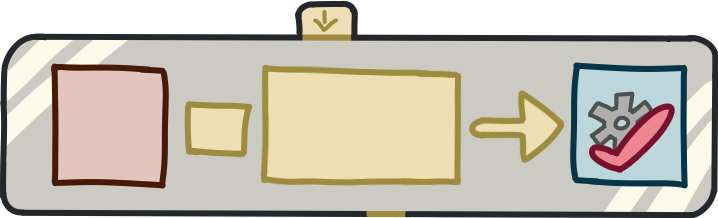
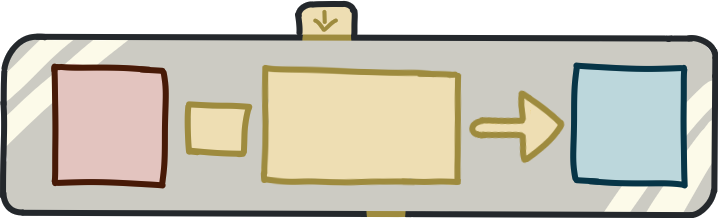
Rule activator toggle

Changed region(s): [[0.7967, 0.4128, 0.9499, 0.7982]]

diff --git a/Assets/Scripts/Actuator/Rules/ActivationSwitcher.cs b/Assets/Scripts/Actuator/Rules/ActivationSwitcher.cs
@@ -1,0 +1,30 @@
+using System.Collections;
+using System.Collections.Generic;
+using UnityEngine;
+using UnityEngine.UI;
+
+public class ActivationSwitcher : MonoBehaviour
+{
+    [SerializeField] Image _image;
+
+    [Space(5)]
+    [SerializeField] Sprite _activateSprite;
+    [SerializeField] Sprite _deactivateSprite;
+
+    private RuleEditor _ruleEditor;
+    private bool _ruleActivating = true;
+
+    private void Start() {
+        _ruleEditor = GetComponentInParent<RuleEditor>();
+    }
+
+    public void Toggle() {
+        _ruleActivating = !_ruleActivating;
+        _ruleEditor.SetActivation(_ruleActivating);
+        if (_ruleActivating) {
+            _image.sprite = _activateSprite;
+        } else {
+            _image.sprite = _deactivateSprite;
+        }
+    }
+}

diff --git a/Assets/Scripts/Actuator/Rules/RuleEditor.cs b/Assets/Scripts/Actuator/Rules/RuleEditor.cs
@@ -27,4 +27,8 @@ public class RuleEditor : MonoBehaviour
     public void SetSensor(SensorInstance sensorInstance) {
         _rule.sensor = sensorInstance;
     }
+
+    public void SetActivation(bool activated) {
+        _rule.action = activated ? Rule.Actions.Activate : Rule.Actions.Desactivate;
+    }
 }
